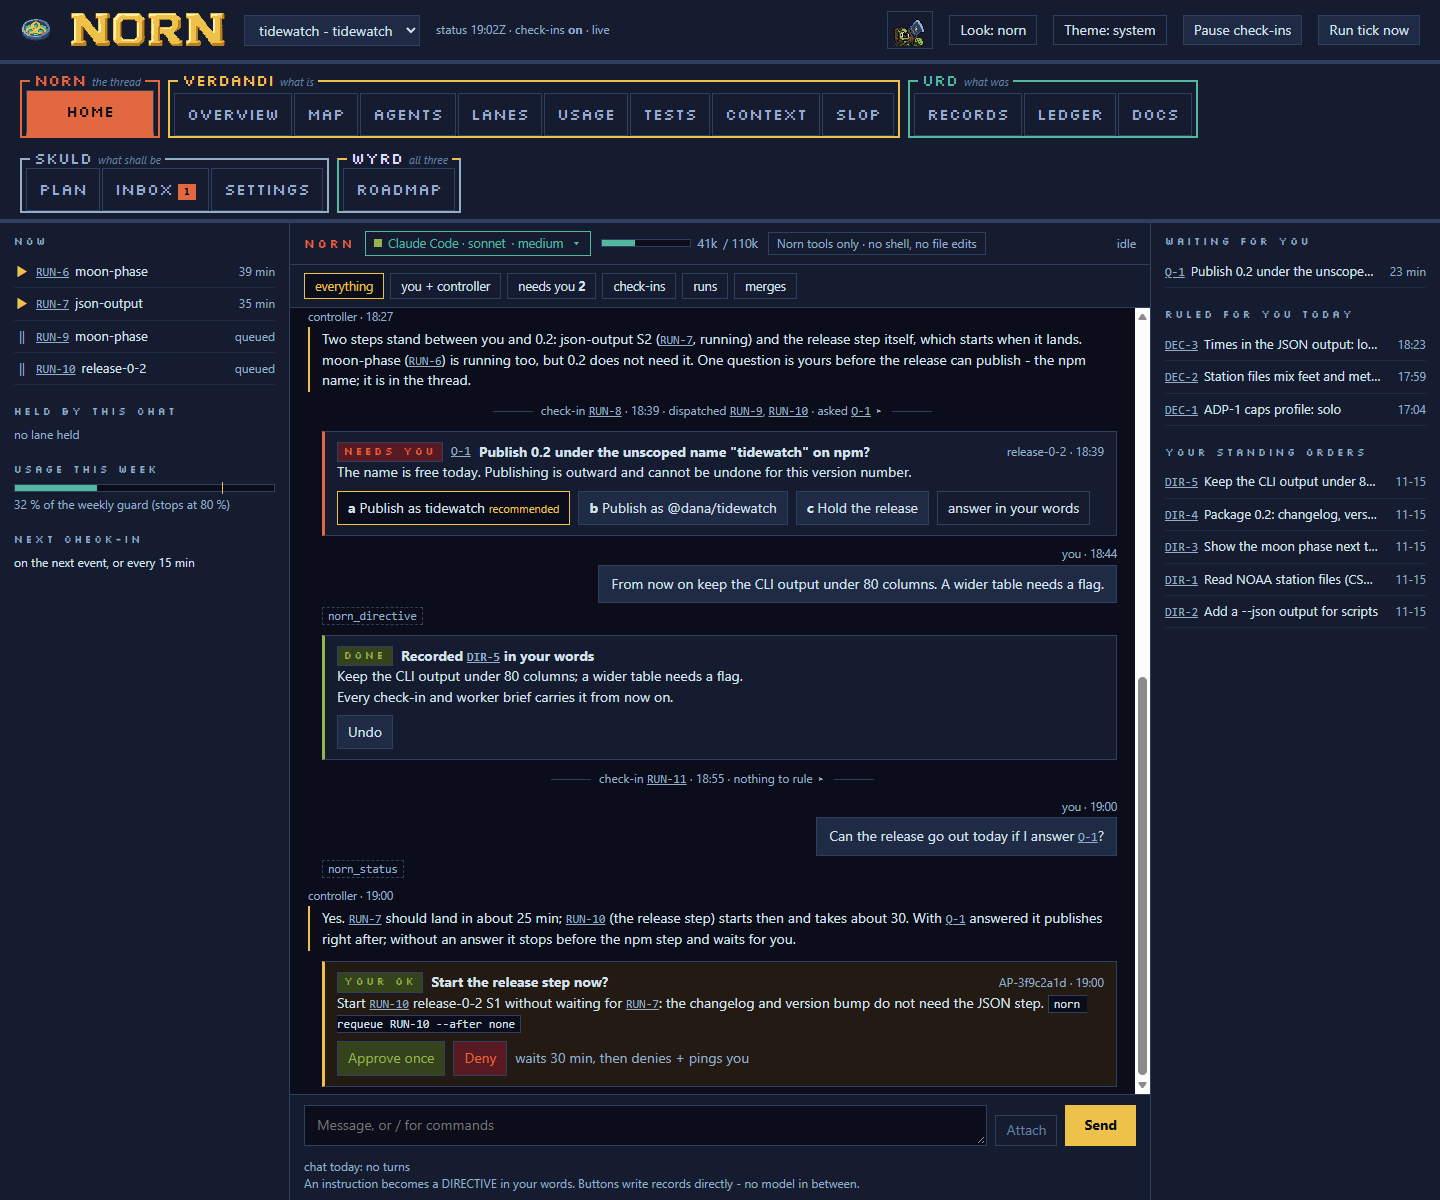
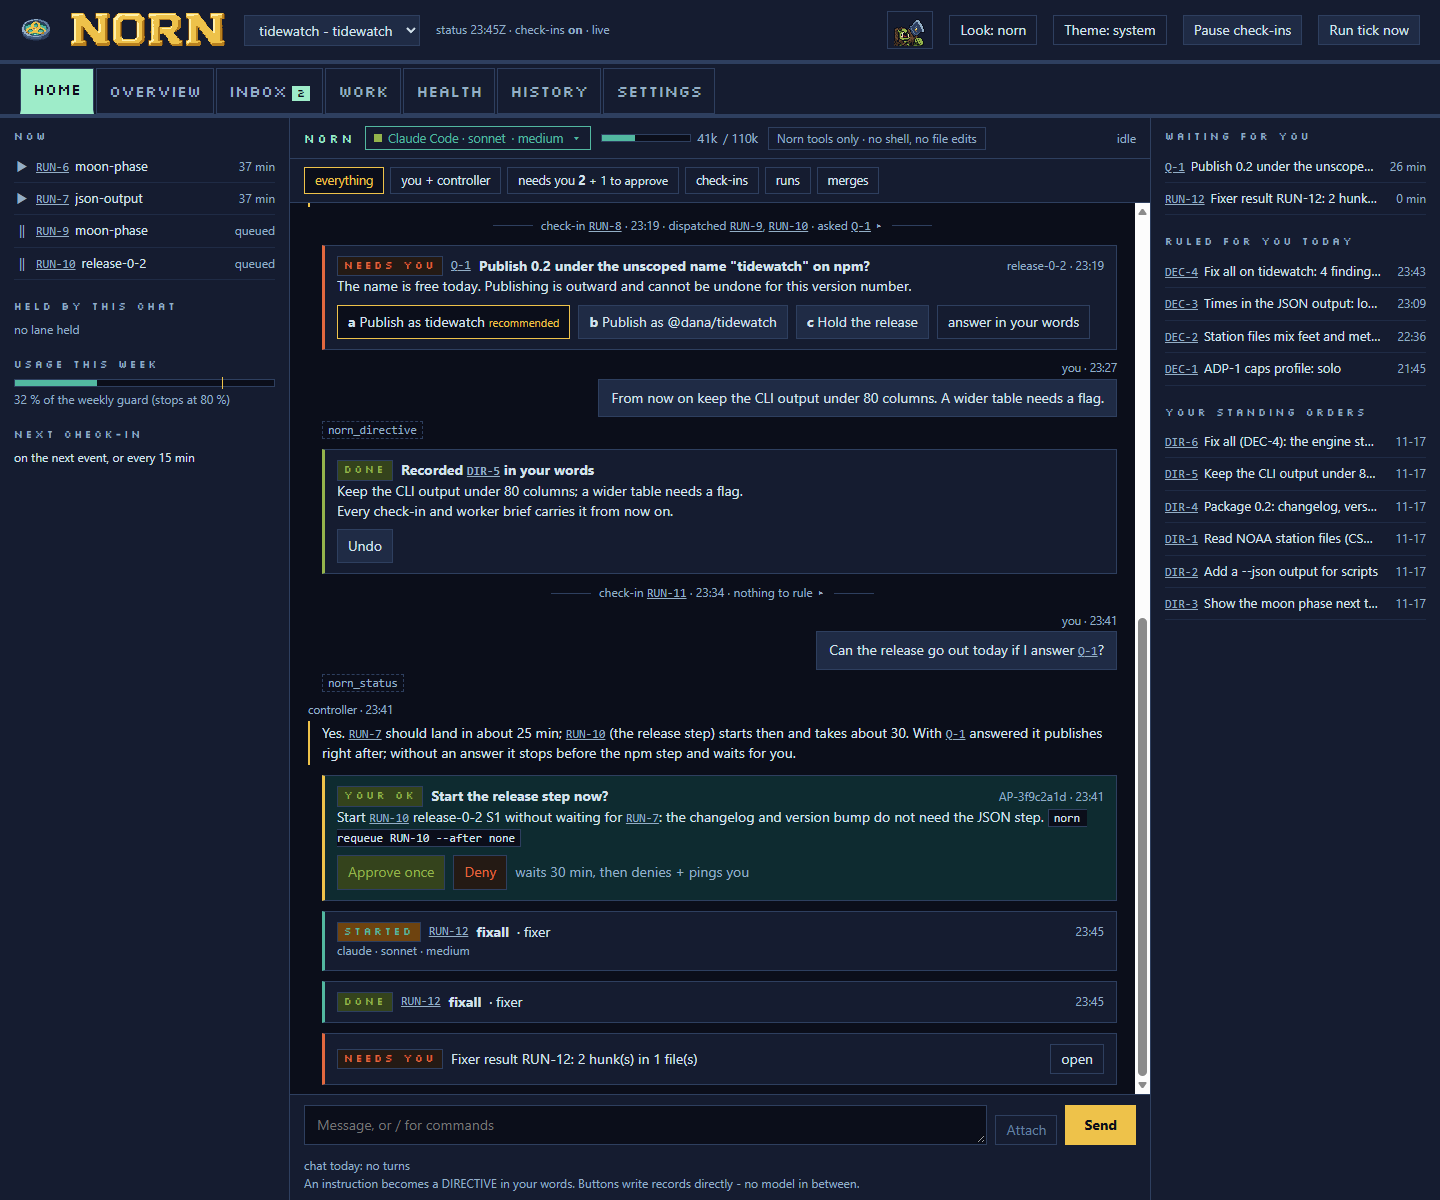
docs(readme): match today's dashboard - the seven-place bar, Runs, the fixer's result card; re-take Home, Plan and Slop

diff --git a/README.md b/README.md
@@ -29,7 +29,7 @@ records, not from the old conversation. Queued steps start as soon as the steps 
 
 An agent re-reads its whole context on every turn, including every instruction file it loads. Norn keeps both small:
 
-- **Context**: the hand-off above keeps each session short. The Context tab shows each role's context size, how many tokens each
+- **Context**: the hand-off above keeps each session short. The Context page shows each role's context size, how many tokens each
   loaded file costs per session, and whether that is growing.
 - **Markdown**: Norn checks the files your agents load on every turn (CLAUDE.md, AGENTS.md, MEMORY.md, rules) for text that costs
   tokens without helping: history lines in an always-loaded file, a MEMORY.md over 200 lines or 25 KB, a Codex
@@ -51,16 +51,17 @@ An agent re-reads its whole context on every turn, including every instruction f
 Before a lane's branch can merge, Norn checks its changes against main for leftovers: conflict markers, generated files out of
 date, stray logs, binaries over 1 MB, and a committed `.only` in a test that silently stops the rest of the suite. In JavaScript
 files it also finds empty catch blocks with no reason, unused variables and imports, import cycles and broken layer rules. The
-findings go back to the same agent as one resume, and the merge waits until each is fixed or waived. The Slop tab lists every open finding, from branches and from
-instruction files, grouped by the kind of fix. "Fix all" turns the selected findings into one fixer task that waits for your
-approval. SloppaChoppa, an orc, presents the findings; you can switch him off per project.
+findings go back to the same agent as one resume, and the merge waits until each is fixed or waived. The Slop page lists every open finding, from branches and from
+instruction files, grouped by the kind of fix; a finding from a branch opens its own row. "Fix all" sends the selected findings to
+a read-only fixer run. Its result card, in the Inbox and on Slop, shows every file and every hunk as a diff, with "Apply all n"
+and "Skip this file"; the check-in applies what you approve. SloppaChoppa, an orc, presents the findings; you can switch him off per project.
 
-![The Slop tab: SloppaChoppa and the open findings, grouped by the kind of fix](docs/img/slop.png)
+![The Slop page: SloppaChoppa, a fixer's result card and the open findings](docs/img/slop.png)
 
 ### Also
 
 - **Usage stays inside your plan.** Before any run starts, Norn checks the worker cap, an hourly rate cap and a weekly stop. The
-  Plan tab shows when the queued work would reach the limit.
+  Plan page shows when the queued work would reach the limit.
 - **Main stays green.** Each lane has its own git worktree and one writer. Finished work merges to main one branch at a time,
   through your test command.
 - **Decisions are on record.** Every question, decision and instruction is an append-only record. You can see why something
@@ -75,23 +76,24 @@ toward your usage.
 
 ## What you get
 
-The dashboard (`norn dash`):
+The dashboard (`norn dash`). Its bar is Home, Overview, Inbox, Work, Health, History and Settings; Work, Health and History each
+open a row of pages.
 
 - **Home**: a controller chat. It answers from the records and acts only through Norn's own commands; anything that needs your
   OK waits on an approval card. Check-ins, runs and questions appear in the same thread.
-- **Plan** (`norn plan`): queued steps in start order with time estimates, the chains of steps that wait on each other, what
+- **Plan** (Work, `norn plan`): queued steps in start order with time estimates, the chains of steps that wait on each other, what
   merges next, and the usage forecast up to the weekly reset.
 
-![The Plan tab: queued steps with start estimates, their chains and the usage forecast](docs/img/plan.png)
+![The Plan page: queued steps with start estimates, their chains and the usage forecast](docs/img/plan.png)
 
 - **Inbox**: the questions waiting for you, each with its options and a recommended answer.
-- **Slop**: every open finding, grouped by the kind of fix, with "Fix all" (see SloppaChoppa above).
-- **Docs**: a reader for the project's docs and every file that instructs an agent, with the findings next to the line.
-- **Context**: the context limits per role, the tokens per loaded file, and whether they are growing.
-- **Roadmap** (`norn road`): themes and items whose status comes from the runs and records, never typed by hand.
-- **The other tabs**: Overview (what needs you and what is running), Map and Lanes (every lane and its latest run), Agents
-  (running sessions with their tokens and context), Usage (usage against the limits, and which model suits which work), Tests
-  (which tests check real behaviour), Records and Ledger (every decision and check-in), and Settings.
+- **Slop** (Health): every open finding, grouped by the kind of fix, with "Fix all" and the fixer's result cards (see SloppaChoppa above).
+- **Docs** (History): a reader for the project's docs and every file that instructs an agent, with the findings next to the line.
+- **Context** (Health): the context limits per role, the tokens per loaded file, and whether they are growing.
+- **Roadmap** (Work, `norn road`): themes and items whose status comes from the runs and records, never typed by hand.
+- **The other pages**: Overview (what needs you and what is running), Lanes and Map (every lane and its latest run), Runs
+  (running and recent runs with their tokens and context), Usage (usage against the limits, and which model suits which work),
+  Tests (which tests check real behaviour), Records and Ledger (every decision and check-in), and Settings.
 
 Around the dashboard:
 
@@ -207,8 +209,6 @@ fresh copy end to end. CI runs the smoke test on Windows, Ubuntu and macOS (`.gi
   or from the scheduler).
 - **Directive**: a standing instruction from you that every check-in follows until you revoke it.
 - **Profile**: a starting set of limits and routing (`try-it`, `solo`, `heavy`); change any value later in Settings.
-- **Urd, Verdandi, Skuld, Wyrd**: the names of the dashboard's tab groups. Urd is what was (records, ledger, docs), Verdandi what
-  is (overview to slop), Skuld what shall be (plan, inbox, settings), and Wyrd all three at once (the roadmap).
 
 ## Beta feedback
 
